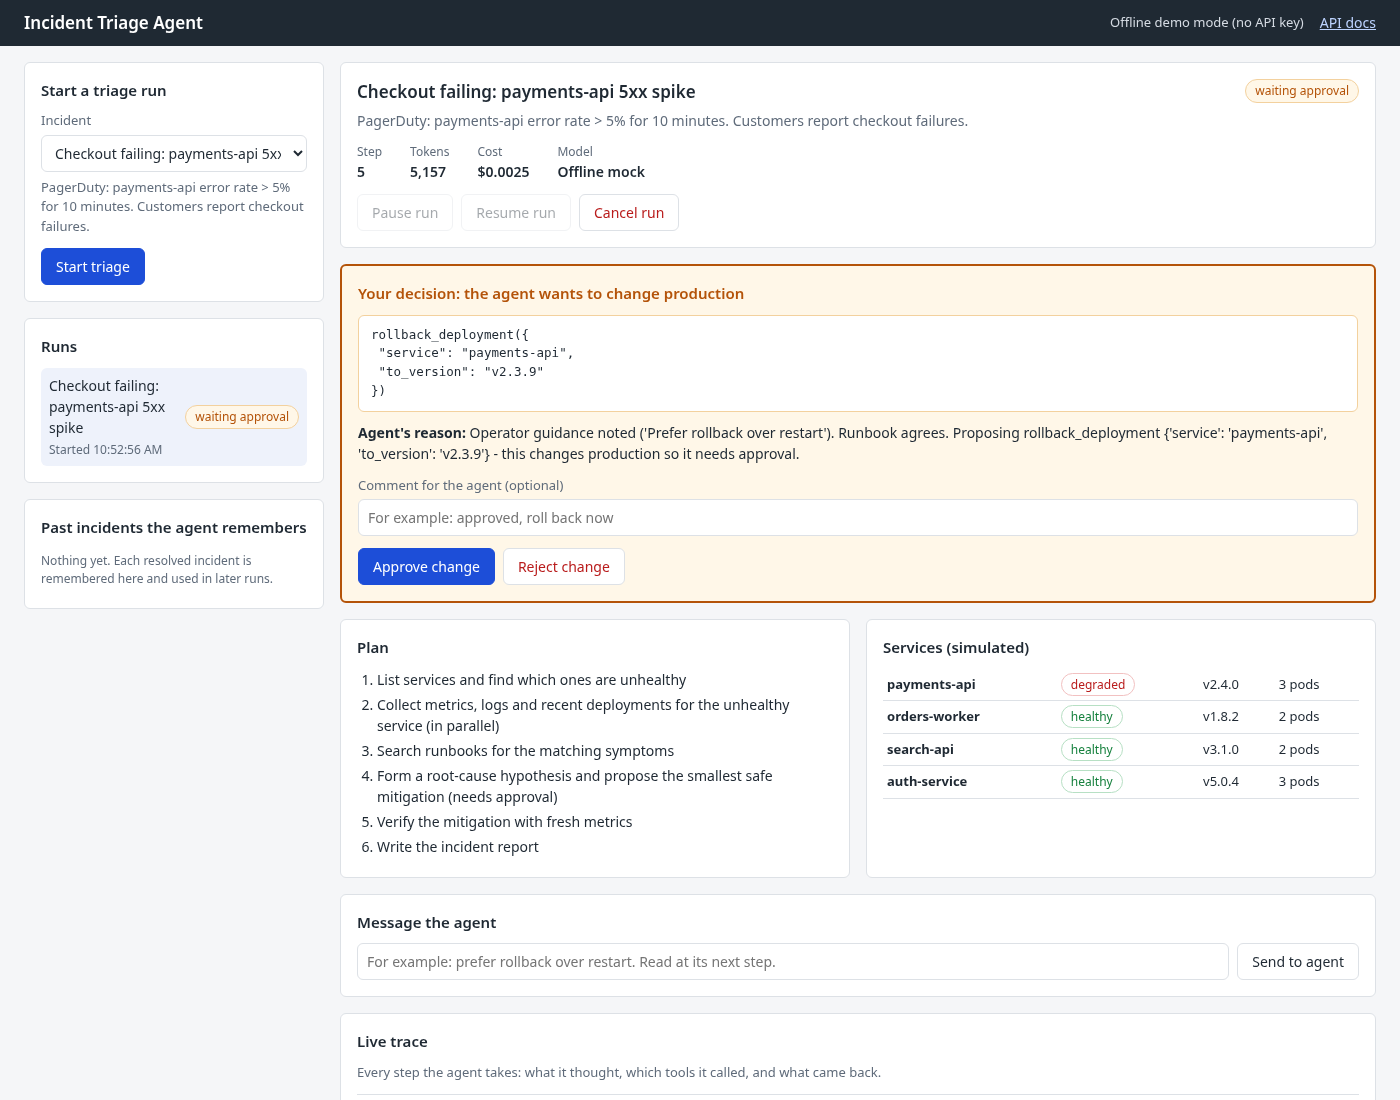
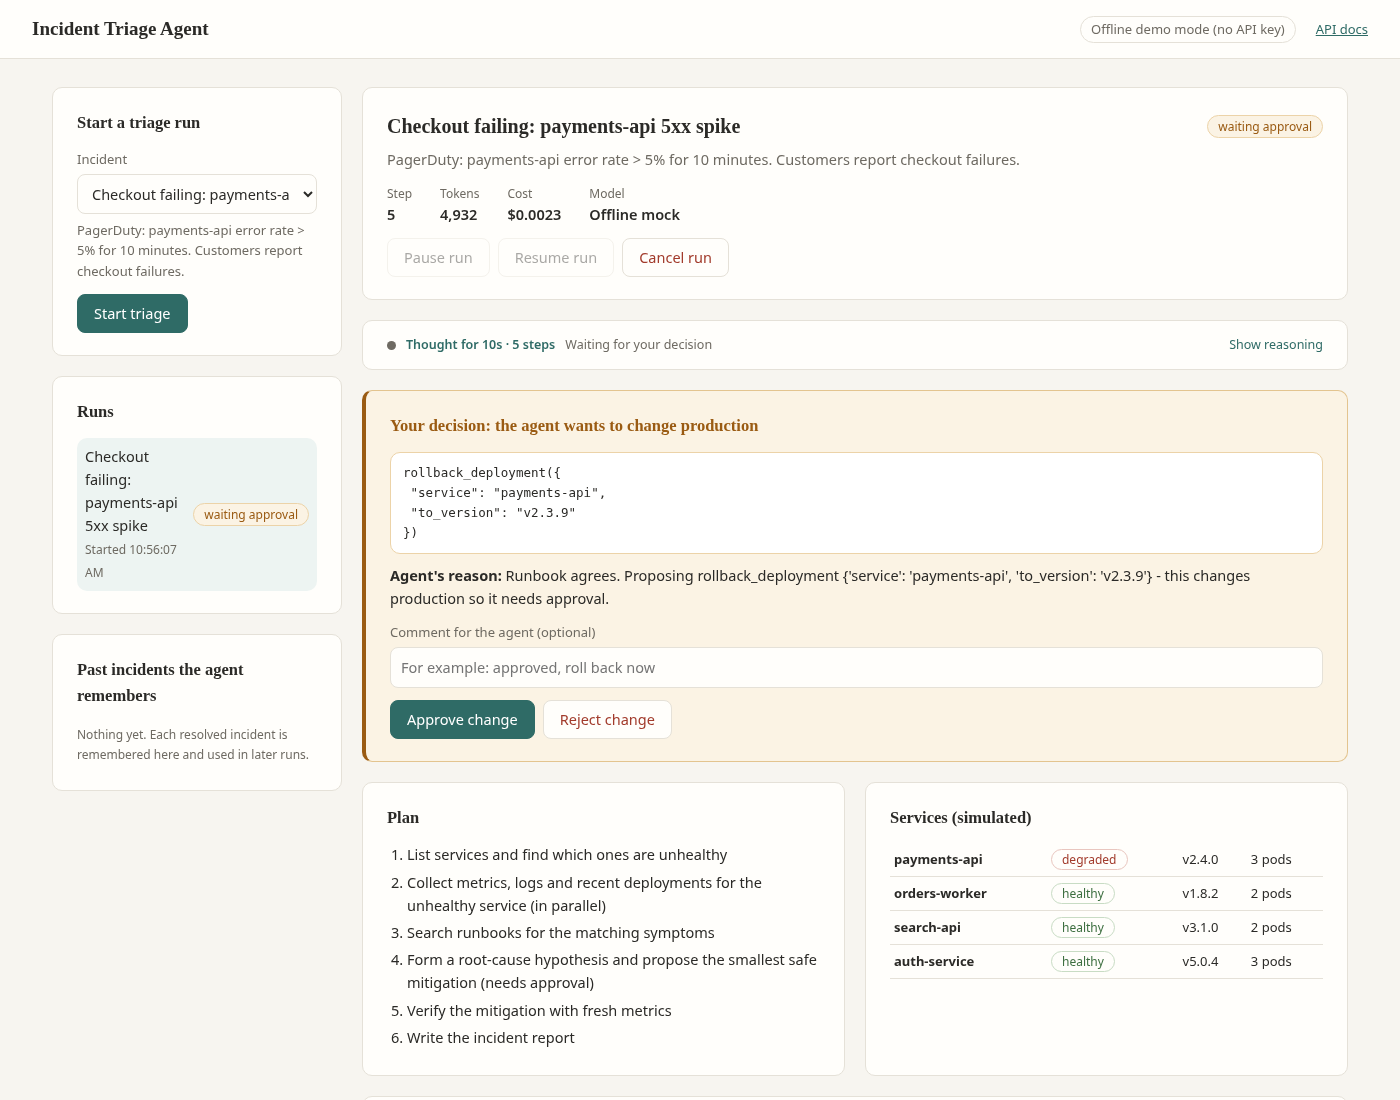
feat(ui): collapsible live thinking panel
- one-line live summary of the current phase (Understanding the incident, Planning, Acting, Concluding)
  with a pulsing marker; click to see plan, per-step reasoning, tools chosen, results and confidence
- keeps updating from the existing SSE trace while collapsed or open; collapses to
  'Thought for Ns · N steps' when the run waits for approval or finishes
- built only from events the backend already emits (no backend change)
- calm warm-neutral restyle (one muted accent, serif headings, 1px dividers, more whitespace),
  following the frontend-design skill; refreshed screenshots

diff --git a/static/style.css b/static/style.css
@@ -1,40 +1,42 @@
 /* Operator console. One loud element (the decision panel); everything else stays quiet. */
 :root {
-  --ink: #1f2933;
-  --muted: #5f6b7a;
-  --paper: #f5f6f8;
-  --panel: #ffffff;
-  --line: #dde1e6;
-  --accent: #1d4ed8;   /* primary actions, links */
-  --amber: #b45309;    /* needs a human decision */
-  --amber-bg: #fff7e8;
-  --green: #15803d;
-  --red: #b91c1c;
-  --space: 16px;
-  --radius: 6px;
+  /* calm, warm neutral console; one muted accent; amber only for "a human must decide" */
+  --ink: #2b2a27;
+  --muted: #6e6a62;
+  --paper: #f7f5f0;
+  --panel: #fffefb;
+  --line: #e5e1d8;
+  --accent: #2f6b66;   /* muted teal: primary actions, live state */
+  --accent-bg: #edf4f2;
+  --amber: #9a5b13;
+  --amber-bg: #fbf3e4;
+  --green: #3c6e3f;
+  --red: #a23b2c;
+  --space: 20px;
+  --radius: 10px;
 }
 * { box-sizing: border-box; }
 body {
   margin: 0; background: var(--paper); color: var(--ink);
-  font: 14px/1.5 "Segoe UI", system-ui, -apple-system, Roboto, sans-serif;
+  font: 14.5px/1.6 "Segoe UI", system-ui, -apple-system, Roboto, sans-serif;
 }
-h1, h2 { margin: 0; font-weight: 600; }
-h1 { font-size: 17px; }
-h2 { font-size: 15px; margin-bottom: 10px; }
+h1, h2 { margin: 0; font-weight: 600; font-family: "Iowan Old Style", Charter, "Palatino Linotype", Georgia, serif; }
+h1 { font-size: 19px; }
+h2 { font-size: 16.5px; margin-bottom: 12px; }
 a { color: var(--accent); }
 code, .code { font-family: ui-monospace, SFMono-Regular, Menlo, Consolas, monospace; font-size: 12.5px; }
 
 /* layout */
-.topbar { display: flex; align-items: center; gap: var(--space); padding: 10px 24px; background: var(--ink); color: #fff; }
+.topbar { display: flex; align-items: center; gap: var(--space); padding: 14px 32px; background: var(--panel); border-bottom: 1px solid var(--line); }
 .topbar h1 { flex: 1; }
-.topbar a { color: #bcd3ff; }
-.mode { font-size: 13px; color: #d5dbe3; }
-.layout { display: grid; grid-template-columns: 300px minmax(0, 1fr); gap: var(--space); padding: var(--space) 24px; max-width: 1400px; margin: 0 auto; }
+.topbar a { color: var(--accent); font-size: 13px; }
+.mode { font-size: 13px; color: var(--muted); padding: 2px 10px; border: 1px solid var(--line); border-radius: 999px; }
+.layout { display: grid; grid-template-columns: 290px minmax(0, 1fr); gap: var(--space); padding: 28px 32px; max-width: 1360px; margin: 0 auto; }
 .sidebar, .content { display: flex; flex-direction: column; gap: var(--space); }
 #run { display: flex; flex-direction: column; gap: var(--space); }
 #run[hidden] { display: none; }
 .columns { display: grid; grid-template-columns: 1fr 1fr; gap: var(--space); }
-.panel { background: var(--panel); border: 1px solid var(--line); border-radius: var(--radius); padding: var(--space); }
+.panel { background: var(--panel); border: 1px solid var(--line); border-radius: var(--radius); padding: 22px 24px; }
 .empty { color: var(--muted); }
 
 /* text */
@@ -44,35 +46,35 @@ code, .code { font-family: ui-monospace, SFMono-Regular, Menlo, Consolas, monosp
 label { display: block; font-size: 13px; color: var(--muted); margin-bottom: 4px; }
 
 /* controls */
-button { font: inherit; white-space: nowrap; padding: 7px 14px; border: 1px solid var(--line); border-radius: var(--radius); background: #fff; color: var(--ink); cursor: pointer; }
+button { font: inherit; white-space: nowrap; padding: 7px 16px; border: 1px solid var(--line); border-radius: 8px; background: var(--panel); color: var(--ink); cursor: pointer; }
 button:hover:not(:disabled) { border-color: var(--muted); }
 button:disabled { opacity: .4; cursor: not-allowed; }
 button.primary { background: var(--accent); border-color: var(--accent); color: #fff; }
 button.danger { color: var(--red); }
-select, input { font: inherit; width: 100%; padding: 7px 9px; border: 1px solid var(--line); border-radius: var(--radius); background: #fff; color: var(--ink); }
+select, input { font: inherit; width: 100%; padding: 8px 10px; border: 1px solid var(--line); border-radius: 8px; background: var(--panel); color: var(--ink); }
 :focus-visible { outline: 2px solid var(--accent); outline-offset: 2px; }
 .actions { display: flex; gap: 8px; flex-wrap: wrap; margin-top: 12px; }
 .inline { display: flex; gap: 8px; }
 
 /* run header */
 .run-title { display: flex; align-items: center; gap: 12px; }
-.run-title h2 { margin: 0; flex: 1; font-size: 17px; }
+.run-title h2 { margin: 0; flex: 1; font-size: 20px; }
 .stats { display: flex; gap: 28px; margin: 0; flex-wrap: wrap; }
 .stats dt { font-size: 12px; color: var(--muted); }
 .stats dd { margin: 0; font-weight: 600; font-variant-numeric: tabular-nums; }
 
 /* status pill: colour carries meaning, text says it too */
-.status { font-size: 12px; padding: 2px 9px; border-radius: 999px; border: 1px solid var(--line); background: #fff; white-space: nowrap; }
-.s-running { color: var(--accent); border-color: #bfd0f7; }
-.s-waiting_approval, .s-escalated { color: var(--amber); border-color: #f3d19e; background: var(--amber-bg); }
-.s-completed, .s-healthy { color: var(--green); border-color: #b7e0c4; }
-.s-failed, .s-degraded, .s-down { color: var(--red); border-color: #f2c1c1; }
+.status { font-size: 12px; padding: 1px 10px; border-radius: 999px; border: 1px solid var(--line); background: var(--panel); white-space: nowrap; }
+.s-running { color: var(--accent); border-color: #bcd6d2; background: var(--accent-bg); }
+.s-waiting_approval, .s-escalated { color: var(--amber); border-color: #ecd3a8; background: var(--amber-bg); }
+.s-completed, .s-healthy { color: var(--green); border-color: #c8dcc4; }
+.s-failed, .s-degraded, .s-down { color: var(--red); border-color: #e9c6bf; }
 .s-paused, .s-cancelled, .s-pending { color: var(--muted); }
 
 /* the decision panel is the one loud element */
-.decision { border: 2px solid var(--amber); background: var(--amber-bg); }
+.decision { border: 1px solid #e3c48f; border-left: 4px solid var(--amber); background: var(--amber-bg); }
 .decision h2 { color: var(--amber); }
-.decision .code { background: #fff; border: 1px solid #f3d19e; padding: 10px 12px; border-radius: var(--radius); white-space: pre-wrap; margin: 0 0 10px; }
+.decision .code { background: #fff; border: 1px solid #ecd3a8; padding: 10px 12px; border-radius: var(--radius); white-space: pre-wrap; margin: 0 0 10px; }
 .reason { margin: 0 0 12px; }
 
 .report { border-left: 4px solid var(--green); }
@@ -84,7 +86,7 @@ select, input { font: inherit; width: 100%; padding: 7px 9px; border: 1px solid 
 .run-list, .memory-list { list-style: none; padding: 0; margin: 0; }
 .run-list { max-height: 320px; overflow: auto; }
 .run-list li { display: flex; justify-content: space-between; align-items: center; gap: 8px; padding: 7px 8px; border-radius: var(--radius); cursor: pointer; }
-.run-list li:hover, .run-list li.active { background: #eef2fb; }
+.run-list li:hover, .run-list li.active { background: var(--accent-bg); }
 .run-list .sub, .memory-list { font-size: 12px; color: var(--muted); }
 .memory-list li { padding: 4px 0; border-bottom: 1px solid var(--line); }
 .memory-list li:last-child { border-bottom: 0; }
@@ -95,7 +97,7 @@ select, input { font: inherit; width: 100%; padding: 7px 9px; border: 1px solid 
 
 /* trace: a label column says what kind of event each row is */
 .timeline { display: flex; flex-direction: column; }
-.ev { display: grid; grid-template-columns: 140px minmax(0, 1fr); gap: 12px; padding: 8px 0; border-top: 1px solid var(--line); }
+.ev { display: grid; grid-template-columns: 140px minmax(0, 1fr); gap: 16px; padding: 10px 0; border-top: 1px solid var(--line); }
 .ev-kind { font-size: 12px; font-weight: 600; color: var(--muted); }
 .ev-when { display: block; font-weight: 400; }
 .ev-body { overflow-wrap: anywhere; }
@@ -107,6 +109,30 @@ select, input { font: inherit; width: 100%; padding: 7px 9px; border: 1px solid 
 .ev-run_finished .ev-kind, .ev-memory_saved .ev-kind { color: var(--green); }
 details summary { cursor: pointer; color: var(--accent); font-size: 12.5px; }
 details pre { background: var(--paper); border: 1px solid var(--line); padding: 8px; border-radius: var(--radius); overflow: auto; white-space: pre-wrap; }
+
+/* thinking panel: one line while collapsed, the agent's reasoning when opened */
+.thinking { padding: 14px 24px; }
+.thinking summary { display: flex; align-items: baseline; gap: 10px; cursor: pointer; list-style: none; }
+.thinking summary::-webkit-details-marker { display: none; }
+.thinking summary::after { content: "Show reasoning"; margin-left: auto; font-size: 12.5px; color: var(--accent); white-space: nowrap; }
+.thinking[open] summary::after { content: "Hide reasoning"; }
+.th-dot { width: 9px; height: 9px; border-radius: 50%; background: var(--muted); flex: none; align-self: center; }
+.thinking.live .th-dot { background: var(--accent); animation: th-pulse 1.4s ease-in-out infinite; }
+.th-title { font-weight: 600; white-space: nowrap; }
+.th-line { color: var(--muted); overflow: hidden; text-overflow: ellipsis; white-space: nowrap; min-width: 0; }
+.thinking.live .th-title { color: var(--accent); }
+.th-phases { display: flex; gap: 6px; list-style: none; padding: 0; margin: 12px 0 8px; font-size: 12.5px; color: var(--muted); flex-wrap: wrap; }
+.th-phases li + li::before { content: "→"; margin-right: 6px; color: var(--muted); }
+.th-phases li.done { color: var(--ink); }
+.th-phases li.now { color: var(--accent); font-weight: 600; }
+.th-body { border-left: 2px solid var(--line); padding-left: 12px; font-size: 13.5px; }
+.th-body h3 { font-size: 13px; margin: 10px 0 4px; }
+.th-body ol, .th-body ul { margin: 0; padding-left: 20px; }
+.th-step { margin: 8px 0; }
+.th-step .why { font-style: italic; }
+.th-step .meta { color: var(--muted); font-size: 12.5px; }
+@keyframes th-pulse { 0%, 100% { opacity: 1; } 50% { opacity: .25; } }
+@media (prefers-reduced-motion: reduce) { .thinking.live .th-dot { animation: none; } }
 
 @media (max-width: 900px) {
   .layout, .columns { grid-template-columns: 1fr; }

diff --git a/static/app.js b/static/app.js
@@ -66,11 +66,12 @@ function select(id) {
   $("empty").hidden = true;
   $("run").hidden = false;
   $("timeline").innerHTML = "";
+  think.reset();
   if (es) es.close();
   es = new EventSource(`/api/runs/${id}/stream`);
   es.addEventListener("trace", (m) => {
     const e = JSON.parse(m.data);
-    if (e.id > lastEventId) { lastEventId = e.id; addEvent(e); refresh(); }
+    if (e.id > lastEventId) { lastEventId = e.id; addEvent(e); think.add(e); refresh(); }
   });
   es.addEventListener("end", () => es.close());
   clearInterval(pollTimer);
@@ -87,6 +88,7 @@ async function refresh() {
   $("run-status").className = `status s-${r.status}`;
   $("run-status").textContent = label(r.status);
   $("st-step").textContent = r.step;
+  think.setRun(r);
   $("st-tokens").textContent = (r.tokens_in + r.tokens_out).toLocaleString();
   $("st-cost").textContent = "$" + r.cost_usd.toFixed(4);
   $("st-llm").textContent = r.llm_mode === "gemini" ? "Gemini" : "Offline mock";
@@ -149,5 +151,83 @@ function addEvent(e) {
   div.innerHTML = `<div class="ev-kind">${kind}<span class="ev-when">Step ${e.step}, ${time(e.ts)}</span></div><div class="ev-body">${html}</div>`;
   $("timeline").appendChild(div);
 }
+
+// ---------------------------------------------------------------------------
+// Thinking panel: a one-line live summary of what the agent is doing, built only
+// from trace events the backend already sends. Click to see the reasoning.
+const PHASES = ["Understanding the incident", "Planning", "Acting", "Concluding"];
+const think = {
+  events: [], status: "pending", step: 0, wasLive: false,
+  reset() { this.events = []; this.status = "pending"; this.step = 0; this.wasLive = false; $("thinking").open = false; this.render(); },
+  add(e) { this.events.push(e); this.render(); },
+  setRun(r) { this.status = r.status; this.step = r.step; this.render(); },
+  phase() {
+    const types = this.events.map((e) => e.type);
+    if (types.includes("run_finished")) return 3;
+    const last = this.events.filter((e) => ["tool_call", "approval_requested", "tool_result"].includes(e.type)).length;
+    if (last) {
+      const lastThought = [...this.events].reverse().find((e) => e.type === "thought");
+      return lastThought && /finish|report|writing the report|escalat|back to normal/i.test(lastThought.data.text) ? 3 : 2;
+    }
+    return types.includes("plan") ? 1 : 0;
+  },
+  line() {
+    const last = [...this.events].reverse().find((e) => ["thought", "tool_call", "approval_requested", "run_finished"].includes(e.type));
+    if (!last) return "Reading the alert";
+    if (last.type === "tool_call") return `Calling ${last.data.tool}`;
+    if (last.type === "approval_requested") return `Waiting for your decision on ${last.data.tool}`;
+    if (last.type === "run_finished") return `Concluded: ${last.data.report.root_cause}`;
+    return last.data.text;
+  },
+  seconds() {
+    if (this.events.length < 2) return 0;
+    return Math.max(1, Math.round(this.events[this.events.length - 1].ts - this.events[0].ts));
+  },
+  render() {
+    const live = ["running", "pending"].includes(this.status);
+    const panel = $("thinking");
+    panel.classList.toggle("live", live);
+    if (this.wasLive && !live) panel.open = false;     // collapse when the agent stops to wait or finishes
+    this.wasLive = live;
+    $("th-title").textContent = live ? "Thinking…"
+      : `Thought for ${this.seconds()}s · ${this.step} step${this.step === 1 ? "" : "s"}`;
+    $("th-line").textContent = live ? this.line() : (this.status === "waiting_approval" ? "Waiting for your decision" : label(this.status));
+    const p = this.phase();
+    $("th-phases").innerHTML = PHASES.map((name, i) =>
+      `<li class="${i < p ? "done" : i === p ? (live ? "now" : "done") : ""}">${name}</li>`).join("");
+    $("th-body").innerHTML = this.detail();
+  },
+  detail() {
+    const plans = this.events.filter((e) => e.type === "plan" || e.type === "plan_revised");
+    const plan = plans.length ? plans[plans.length - 1].data.steps : [];
+    const byStep = new Map();
+    for (const e of this.events) {
+      if (!["thought", "tool_call", "approval_requested", "tool_result", "approval_decided", "guidance"].includes(e.type)) continue;
+      if (!byStep.has(e.step)) byStep.set(e.step, []);
+      byStep.get(e.step).push(e);
+    }
+    let html = plan.length ? `<h3>Plan</h3><ol>${plan.map((s) => `<li>${esc(s)}</li>`).join("")}</ol>` : "";
+    html += "<h3>Reasoning by step</h3>";
+    if (!byStep.size) html += '<p class="meta">Nothing yet. The agent is reading the alert.</p>';
+    for (const [step, evs] of byStep) {
+      const thought = evs.find((e) => e.type === "thought");
+      const chose = evs.filter((e) => e.type === "tool_call" || e.type === "approval_requested")
+        .map((e) => `${esc(e.data.tool)}${e.type === "approval_requested" ? " (needs approval)" : ""}`);
+      const results = evs.filter((e) => e.type === "tool_result").map((e) => esc(e.data.ok ? e.data.summary : e.data.error));
+      const human = evs.filter((e) => e.type === "approval_decided" || e.type === "guidance")
+        .map((e) => e.type === "guidance" ? `You said: ${esc(e.data.message)}` : `You ${esc(e.data.decision)} ${esc(e.data.tool)}`);
+      html += `<div class="th-step"><b>Step ${step}</b>${thought ? ` <span class="why">${esc(thought.data.text)}</span>` : ""}`
+        + (chose.length ? `<div class="meta">Chose: ${chose.join(", ")}</div>` : "")
+        + (results.length ? `<div class="meta">Learned: ${results.join("; ")}</div>` : "")
+        + (human.length ? `<div class="meta">${human.join("; ")}</div>` : "") + "</div>";
+    }
+    const done = this.events.find((e) => e.type === "run_finished");
+    if (done) {
+      const rep = done.data.report;
+      html += `<h3>Conclusion</h3><p>${esc(rep.root_cause)}</p><p class="meta">Confidence ${Math.round((rep.confidence || 0) * 100)}%. ${esc(rep.routing_reason || "")}</p>`;
+    }
+    return html;
+  },
+};
 
 init();

diff --git a/static/index.html b/static/index.html
@@ -57,6 +57,16 @@
         <p id="run-error" class="error" hidden></p>
       </section>
 
+      <details id="thinking" class="panel thinking">
+        <summary>
+          <span id="th-dot" class="th-dot" aria-hidden="true"></span>
+          <span id="th-title" class="th-title">Thinking…</span>
+          <span id="th-line" class="th-line"></span>
+        </summary>
+        <ol id="th-phases" class="th-phases" aria-label="Agent phase"></ol>
+        <div id="th-body" class="th-body"></div>
+      </details>
+
       <section id="approval" class="panel decision" hidden>
         <h2>Your decision: the agent wants to change production</h2>
         <pre id="ap-call" class="code"></pre>

diff --git a/app/llm/gemini.py b/app/llm/gemini.py
@@ -79,7 +79,7 @@ class GeminiLLM:
                 return parse_response(resp, self.model, int((time.perf_counter() - started) * 1000))
             except LLMError:
                 raise
-            except Exception as e:  # 429 / 5xx / network: retry with exponential backoff
+            except Exception as e:  # 429 / 5xx / network: retry (server hint or exponential backoff)
                 last_err = e
                 if attempt < self.max_retries:
                     time.sleep(retry_delay(e, attempt, self.backoff) if self.backoff else 0)

diff --git a/app/agent/loop.py b/app/agent/loop.py
@@ -214,7 +214,7 @@ class Agent:
 
         for call in reads:
             self._event(run_id, n, "tool_call", tool=call.name, args=call.args, risky=False)
-        if reads:  # parallel execution + aggregation of read-only tools
+        if reads:  # read-only tools are safe to run in parallel; results are aggregated into one step
             with ThreadPoolExecutor(max_workers=min(4, len(reads))) as pool:
                 results = list(pool.map(lambda c: self._run_tool(state["world"], c), reads))
             for rec in results:
